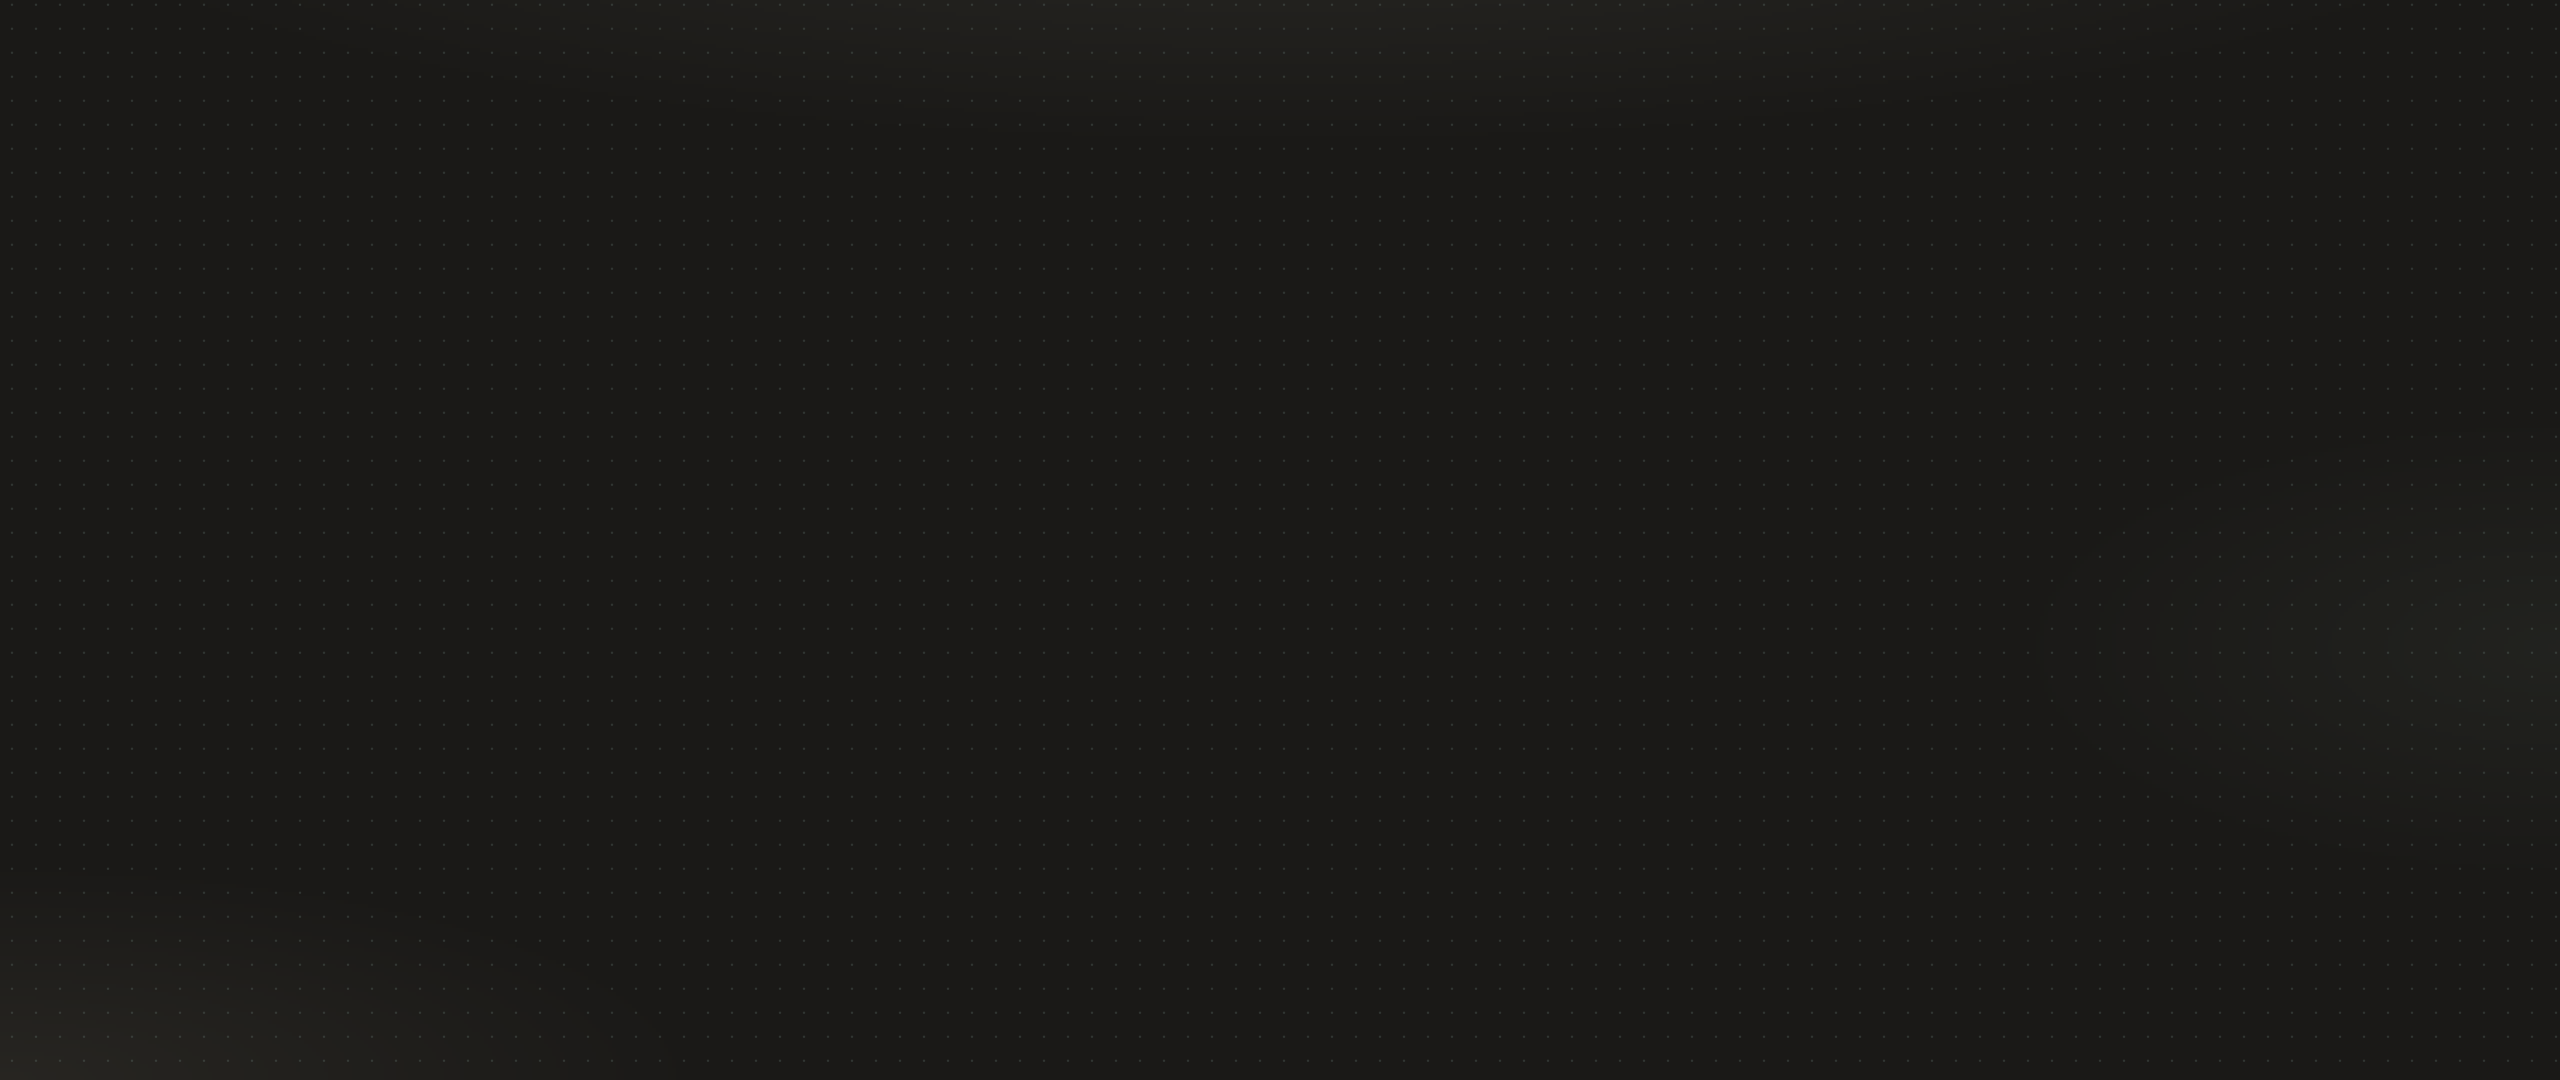
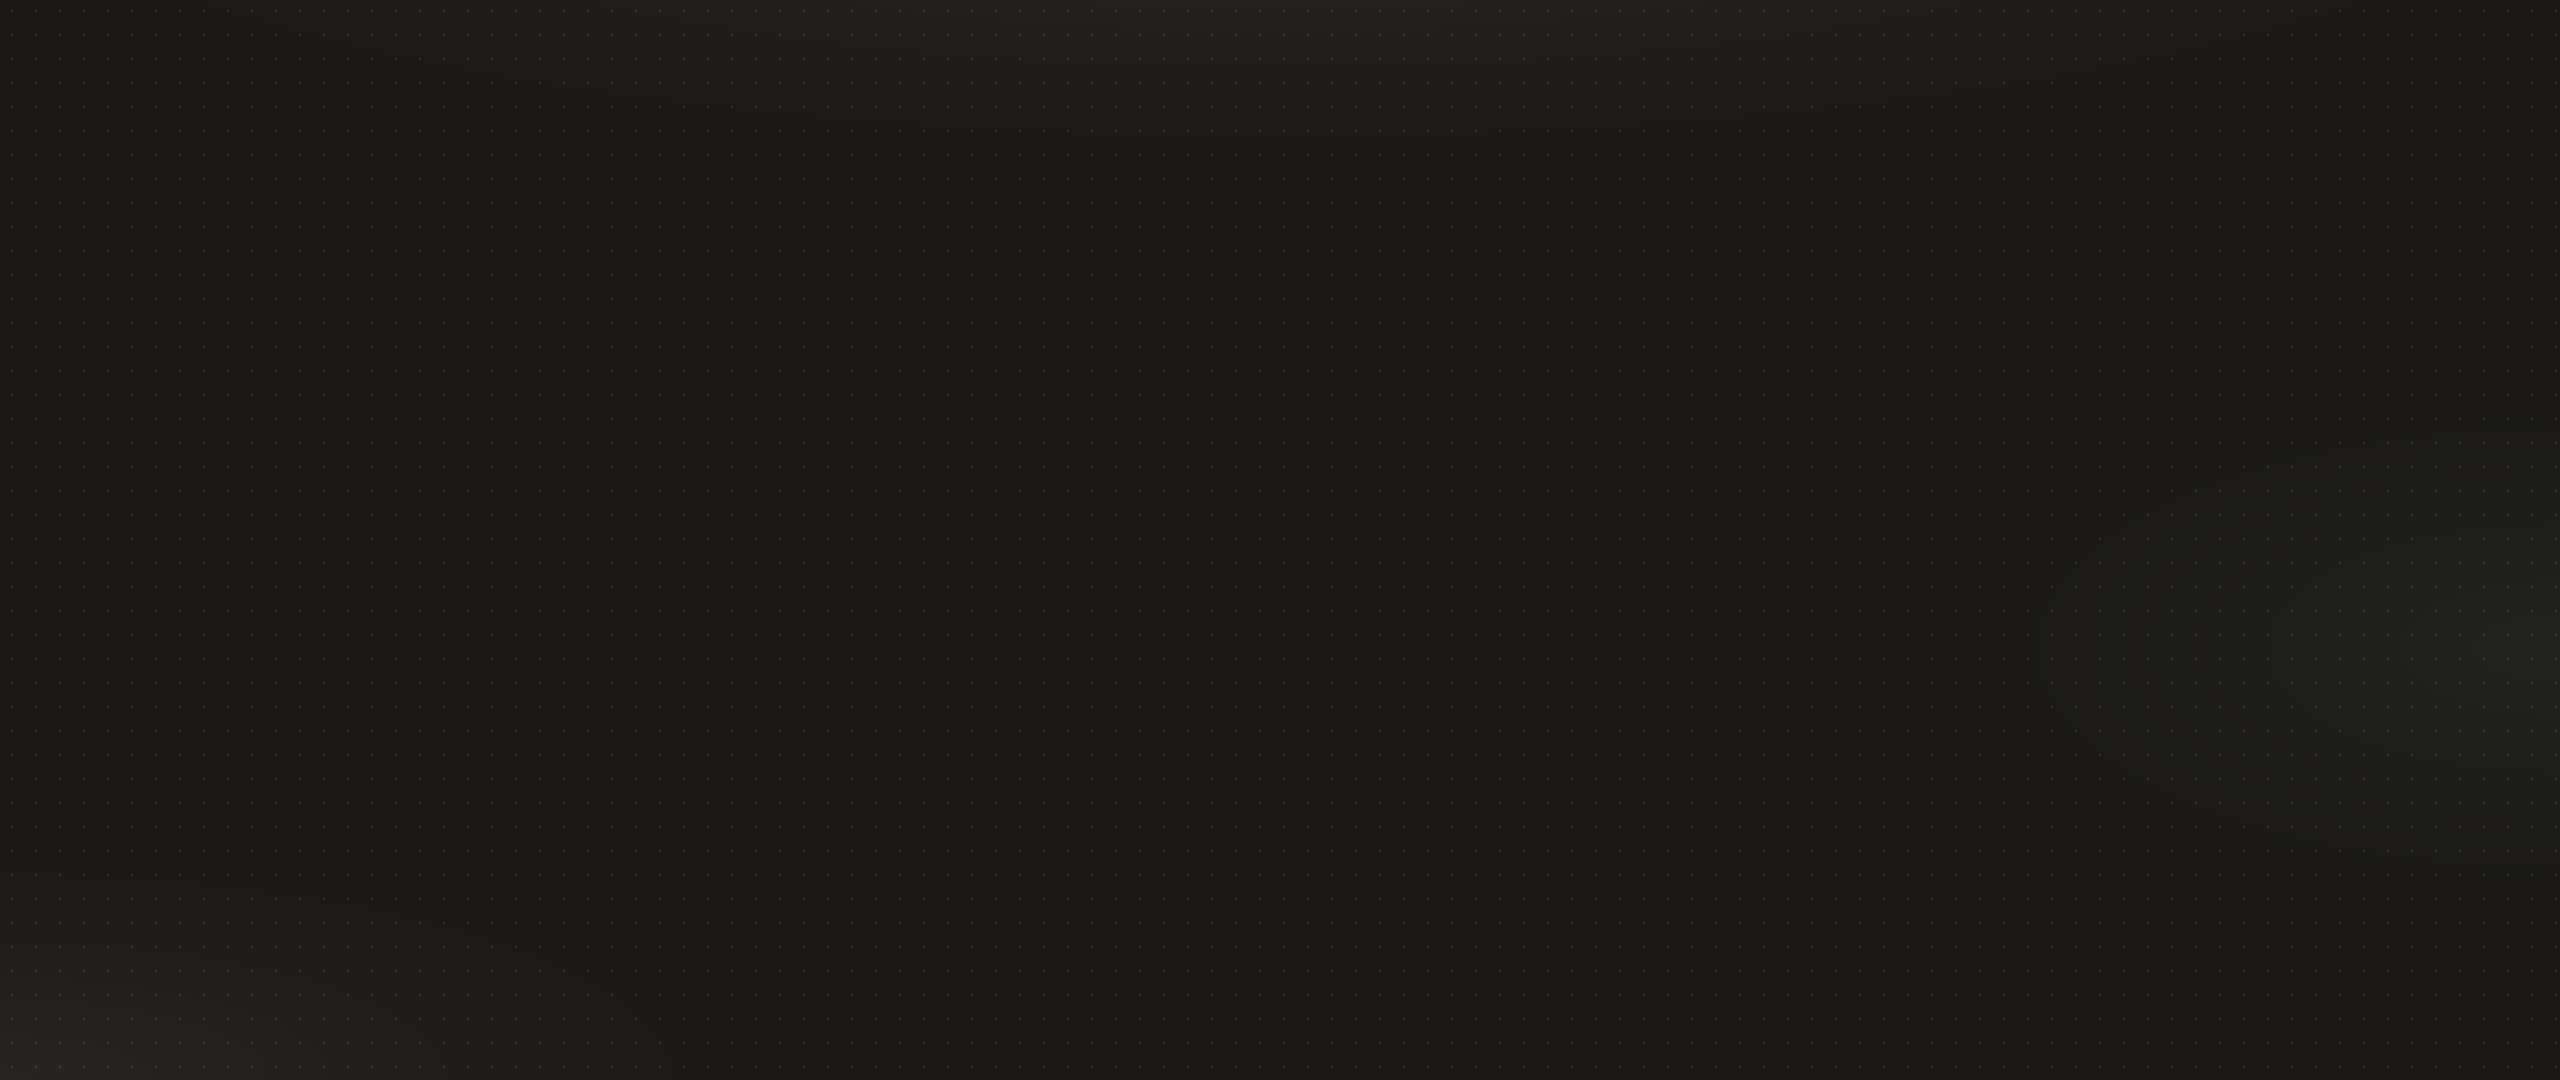
Revert cursor baseline-lock + hidden titlebar experiments
Back to the indigo rounded cursor at its stock cell position, default
titlebar, and the original background calibration (titled windows
aligned; fullscreen/tabbed windows off by ~12px — accepted tradeoff).

diff --git a/tools/bake-backgrounds.py b/tools/bake-backgrounds.py
@@ -56,14 +56,9 @@ MODES = {
 # Per-scale defaults: tile size, dot solid/fade radii, calibrated dot center.
 # cy values were measured from screenshots on the original displays (16"
 # MacBook Pro retina @2x; LG ultrawide @1x) — see README for the procedure.
-# CALIBRATED FOR CHROMELESS WINDOWS (macos-titlebar-style = hidden): Ghostty
-# anchors the background to the window top INCLUDING chrome, so a titlebar
-# shifts the dots by its height mod the pitch (~12px @2x). Titled-window
-# values were cy 11.5 (2x) / 10.75 (1x); hidden-titlebar = those - 12 / - 6.
-# The 1x value is PREDICTED, not yet verified on the LG — recalibrate there.
 SCALES = {
-    "2x": {"tile": 48, "r_in": 2.0, "r_out": 2.7, "cx": 24.0, "cy": 47.5},
-    "1x": {"tile": 24, "r_in": 1.0, "r_out": 1.35, "cx": 12.0, "cy": 4.75},
+    "2x": {"tile": 48, "r_in": 2.0, "r_out": 2.7, "cx": 24.0, "cy": 11.5},
+    "1x": {"tile": 24, "r_in": 1.0, "r_out": 1.35, "cx": 12.0, "cy": 10.75},
 }
 
 
